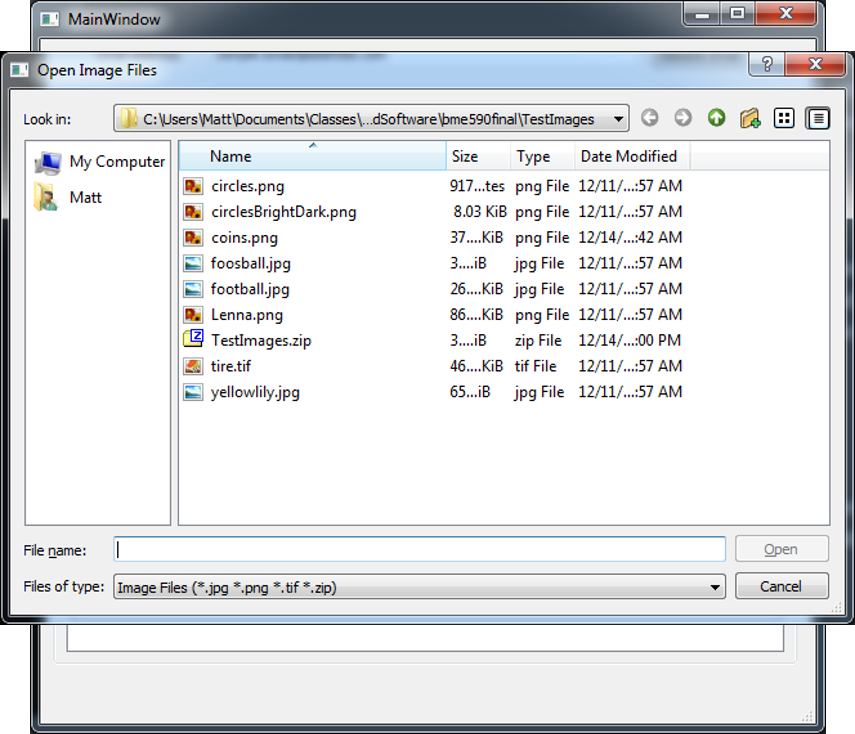
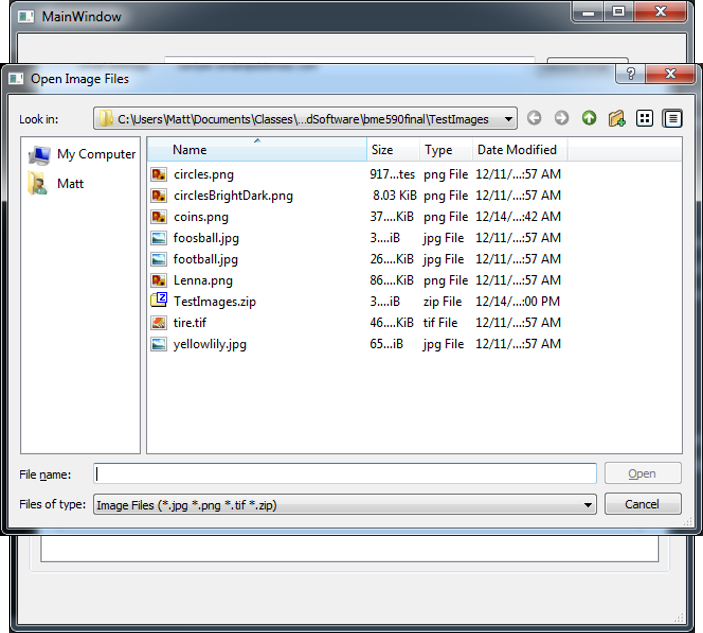
Updated images sizes and formatting

Changed region(s): [[0.0, 0.0, 1.0, 1.0]]

diff --git a/README.md b/README.md
@@ -78,5 +78,5 @@ left and right respectively. The images histograms will appear as a separate
 [Matplotlib](https://matplotlib.org/) plot. In the example below the image 
 has been treated with `reverse video` processing.
 
-| [Original and processed images](ProjectIms/lilly.png) | [Histograms](ProjectIms/hist.PNG) |
+| ![Original and processed images](ProjectIms/lilly.png) | ![Histograms](ProjectIms/hist.PNG) |
 
